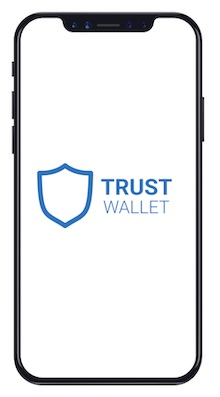
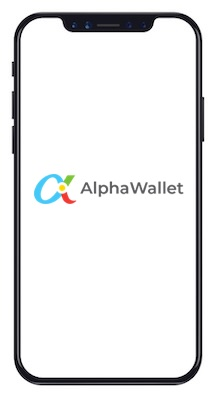
fixed tribes and alpha wallet

Changed region(s): [[0.1364, 0.3929, 0.8455, 0.5743]]

diff --git a/tribes.html b/tribes.html
@@ -111,7 +111,7 @@ background: url("img/tribes/label.png");
                         
                             <a href="/use.html">
                              <div class="opacity">
-                            <strong>Walet</strong>
+                            <strong>Wallet</strong>
                         </div></a>
                     </div>
                         </div>
@@ -125,7 +125,7 @@ background: url('img/tribes/peta1.png');
   background-size: 100% 100%; border: 0px;">
                     <input type="hidden" name="tribes">
                     <i class="dropdown icon"></i>
-                    <div class="default text">Show Tribes</div>
+                    <div class="default text" style="color: black !important;">Show Tribes</div>
                     <div class="menu" style="
 background: url('img/tribes/peta2.png');
   background-size: 100% 100%; border: 0px;">
@@ -162,6 +162,42 @@ background: url('img/tribes/peta2.png');
             <div style="background-color: green; height: 1px; margin-top:20px; margin-bottom:20px;"></div>
             <div class="ui stackable grid">
                 <div class="eight wide column">
+                      <div class="ui segments">
+                            <div class="ui segment">
+                                <h2 class="ui header">
+                                    <div class="content" style="color: black !important;">
+                                        <span>Create a New Tribe</span>
+                                    </div>
+                                </h2>
+                                <form>
+                                    <div class="ui right labeled left icon input fluid large buy">
+                                      <i class="tag green icon"></i>
+                                      <input type="text" id="tribeName" placeholder="Max 32 Characters">
+                                      <div class="ui tag teal label notranslate">Name</div>
+                                    </div>
+                                    <br>
+                                    <div class="ui right labeled left icon input fluid large buy">
+                                      <i class="ethereum green icon"></i>
+                                      <input type="text" id="entryCost" placeholder="Min .001 ETC">
+                                      <div class="ui tag green label notranslate">ETC</div>
+                                    </div>
+                                <br/>
+                                
+                                <div class="ui right labeled left icon input fluid large buy">
+                                    <i class="users green icon"></i>
+                                    <input type="text" id="amountOfMembers" placeholder="Min. 2">
+                                    <div class="ui tag blue label notranslate">Members</div>
+                                </div>
+                                    
+                                    <div>
+                                        <span id="tribeAddress"></span>
+                                    </div>
+                                
+                                <a href="#" id="createTribe" class="ui large fluid green button" style="margin-top:10px;">
+                                    Create Tribe
+                                </a>
+                            </div>
+                    </div>
                             <div class="ui segment small modal">
                                 <h2 class="ui header">
                                     <div class="content">
@@ -208,8 +244,9 @@ background: url('img/tribes/peta2.png');
                   <div class="ui segment">
                   <h2 style="margin-bottom:10px; background: url('img/tribes/label.png');
   background-size: 100% 100%;"><i class="globe icon">
-                   </i>Global Tribes</h2>
-                  <div id="map" style="width:100%; height: 400px;">
+                   </i>How does it work?</h2>
+                  <!-- <div id="map" style="width:100%; height: 400px;"> -->
+                    <iframe width="100%" height="400px" src="https://www.youtube.com/embed/kBrfKo7klX0?start=158" frameborder="0" allow="accelerometer; autoplay; encrypted-media; gyroscope; picture-in-picture" allowfullscreen></iframe>
                 </div>
                 </div>
                 </div>
@@ -255,7 +292,7 @@ background: url('img/tribes/peta2.png');
         <script src="lib/dataTables.responsive.min.js"></script>
         <script src="lib/alertify.min.js"></script>
         <script src="lib/leaflet.min.js"></script>
-        <script src="lib/modernizr.min.js"></script>
+        <script src="lib/modernizr.touch.js"></script>
         <script src="lib/mfb.min.js"></script>
 
         <script src="js/util.js"></script>

diff --git a/js/etc/tribes/lobby.js b/js/etc/tribes/lobby.js
@@ -105,24 +105,24 @@ function buildLobby(url){
 var mymap = L.map('map').setView([45,75], 2);
 
 function generatePoint(location, power,name,id){
-  var marker = L.marker(location).addTo(mymap);
+  // var marker = L.marker(location).addTo(mymap);
   // var circle = L.circle(location, {
   //     color: 'red',
   //     fillColor: '#f03',
   //     fillOpacity: 0.1,
   //     radius: power
   // }).addTo(mymap);
-  marker.bindPopup("<h5><a>" + linkify(name, "/tribe.html?id=" + id + "#") + "</a></h5>");
+  // marker.bindPopup("<h5><a>" + linkify(name, "/tribe.html?id=" + id + "#") + "</a></h5>");
   // circle.bindPopup("<a>" +  "https://commonwealth.gg/tribe.html?id=4" + "</a>");
   // marker.bindPopup("TRIBE");
 
   
-  L.tileLayer('https://api.mapbox.com/styles/v1/{id}/tiles/{z}/{x}/{y}?access_token=pk.eyJ1IjoiYW50c2Fua292IiwiYSI6ImNrYWQwOWQxYzF6NTAyem96OWd5d2V1N2wifQ.IheYsirwEr5e_Sr06guSRQ', {
-      attribution: 'Map data &copy; <a href="https://www.openstreetmap.org/">OpenStreetMap</a> contributors, <a href="https://creativecommons.org/licenses/by-sa/2.0/">CC-BY-SA</a>, Imagery © <a href="https://www.mapbox.com/">Mapbox</a>',
-      maxZoom: 18,
-      id: 'mapbox/streets-v11',
-      tileSize: 512,
-      zoomOffset: -1,
-      accessToken: 'pk.eyJ1IjoiYW50c2Fua292IiwiYSI6ImNrYWQwOWQxYzF6NTAyem96OWd5d2V1N2wifQ.IheYsirwEr5e_Sr06guSRQ'
-  }).addTo(mymap);  
+  // L.tileLayer('https://api.mapbox.com/styles/v1/{id}/tiles/{z}/{x}/{y}?access_token=pk.eyJ1IjoiYW50c2Fua292IiwiYSI6ImNrYWQwOWQxYzF6NTAyem96OWd5d2V1N2wifQ.IheYsirwEr5e_Sr06guSRQ', {
+  //     attribution: 'Map data &copy; <a href="https://www.openstreetmap.org/">OpenStreetMap</a> contributors, <a href="https://creativecommons.org/licenses/by-sa/2.0/">CC-BY-SA</a>, Imagery © <a href="https://www.mapbox.com/">Mapbox</a>',
+  //     maxZoom: 18,
+  //     id: 'mapbox/streets-v11',
+  //     tileSize: 512,
+  //     zoomOffset: -1,
+  //     accessToken: 'pk.eyJ1IjoiYW50c2Fua292IiwiYSI6ImNrYWQwOWQxYzF6NTAyem96OWd5d2V1N2wifQ.IheYsirwEr5e_Sr06guSRQ'
+  // }).addTo(mymap);  
 }

diff --git a/info.html b/info.html
@@ -147,8 +147,8 @@
                                                         <ul>
                                                             <li><a href="https://chrome.google.com/webstore/detail/saturn-wallet/nkddgncdjgjfcddamfgcmfnlhccnimig?hl=en" target="_blank">Saturn Wallet (Computer)</a></li>
                                                             <li><a href="https://chrome.google.com/webstore/detail/nifty-wallet/jbdaocneiiinmjbjlgalhcelgbejmnid?hl=en" target="_blank">Nifty Wallet (Computer)</a></li>
-                                                            <li><a href="https://play.google.com/store/apps/details?id=com.wallet.crypto.trustapp&hl=en" target="_blank">Trust Wallet (Android)</a></li>
-                                                            <li><a href="https://apps.apple.com/us/app/trust-crypto-bitcoin-wallet/id1288339409" target="_blank">Trust Wallet (iPhone)</a></li>
+                                                            <li><a href="https://play.google.com/store/apps/details?id=io.stormbird.wallet&hl=en" target="_blank">Alpha Wallet (Android)</a></li>
+                                                            <li><a href="https://apps.apple.com/us/app/alphawallet-eth-wallet/id1358230430?mt=8" target="_blank">Alpha Wallet (iPhone)</a></li>
                                                         </ul>
                                                     </h4>
                                                 </div>

diff --git a/tribe.html b/tribe.html
@@ -323,7 +323,7 @@ style="margin-bottom:10px; background: url('img/tribes/label.png');
     <script src="lib/lodash.min.js"></script>
     <script src="lib/leaflet.min.js"></script>
     <script src="lib/mfb.min.js"></script>
-    <script src="lib/modernizr.min.js"></script>
+    <script src="lib/modernizr.touch.js"></script>
 
     <script src="js/util.js"></script>
     <script src="js/etc/contracts.js"></script>
